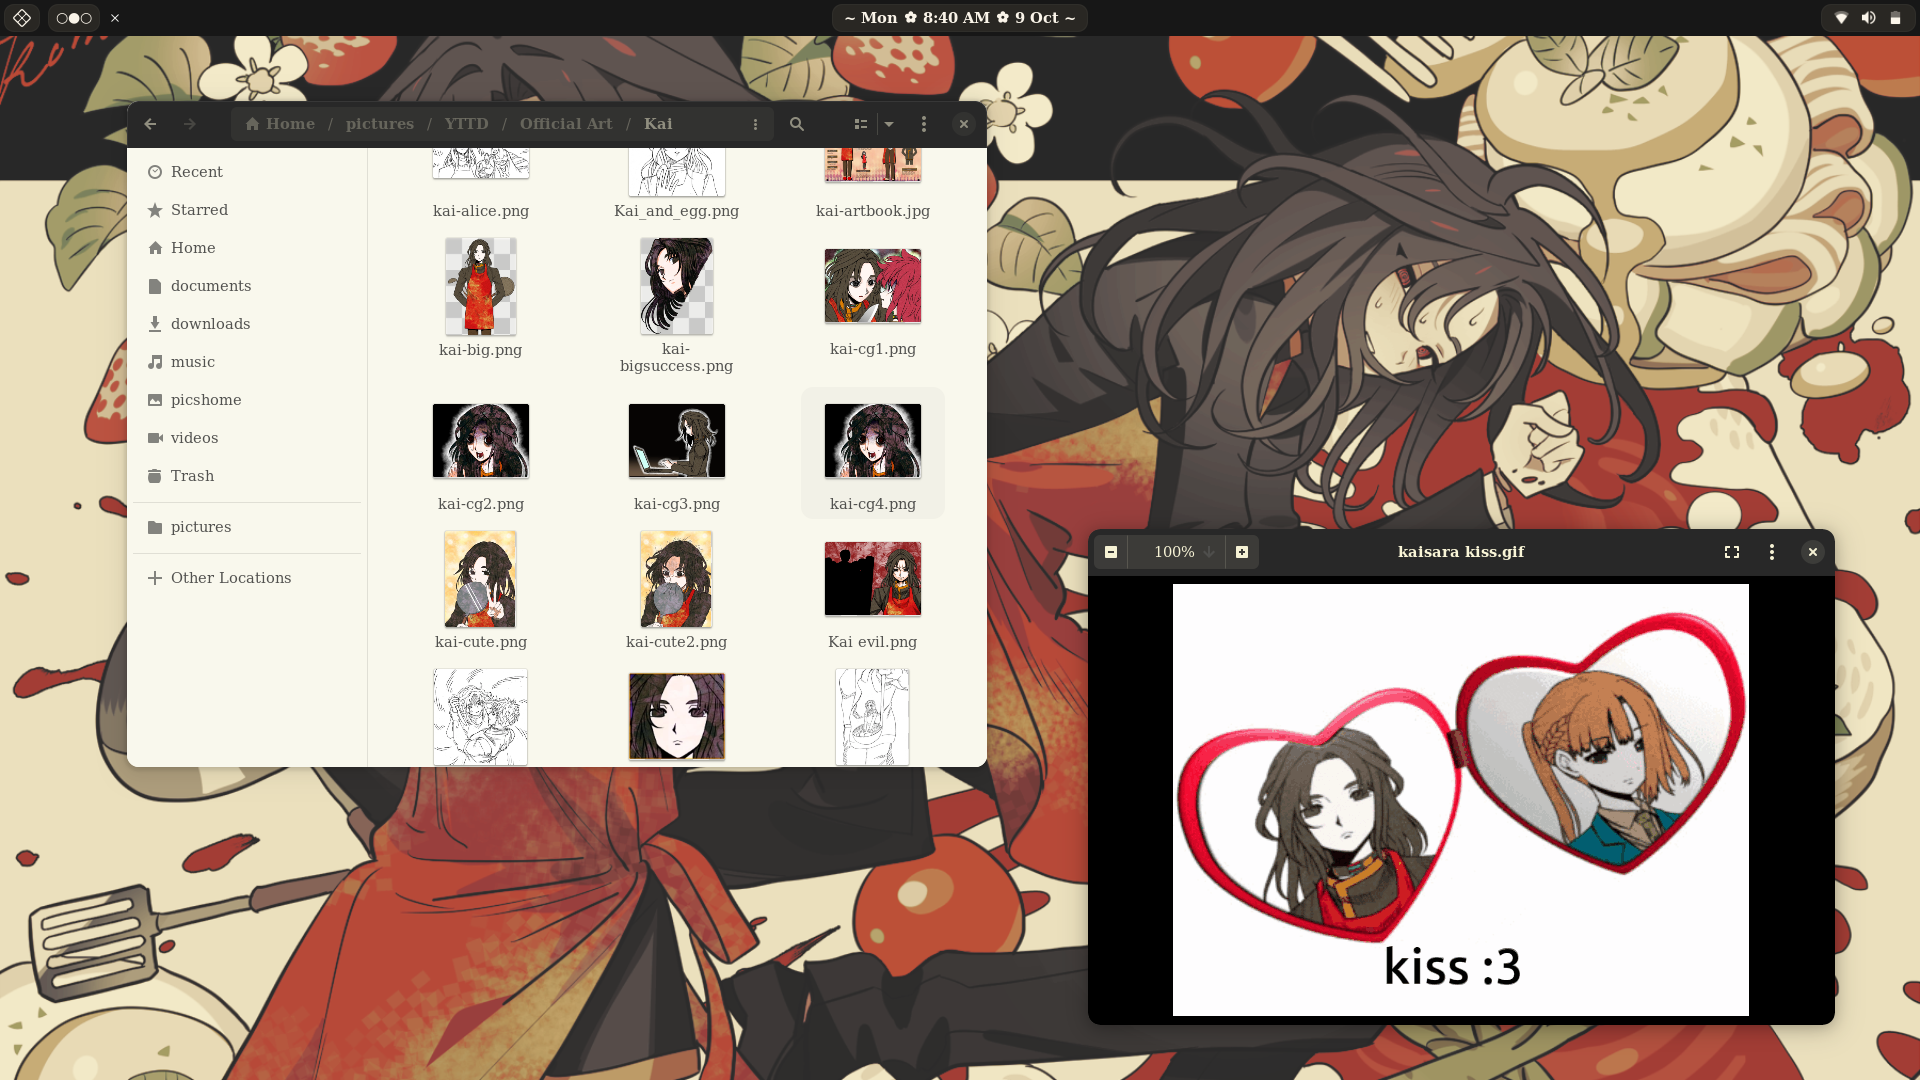
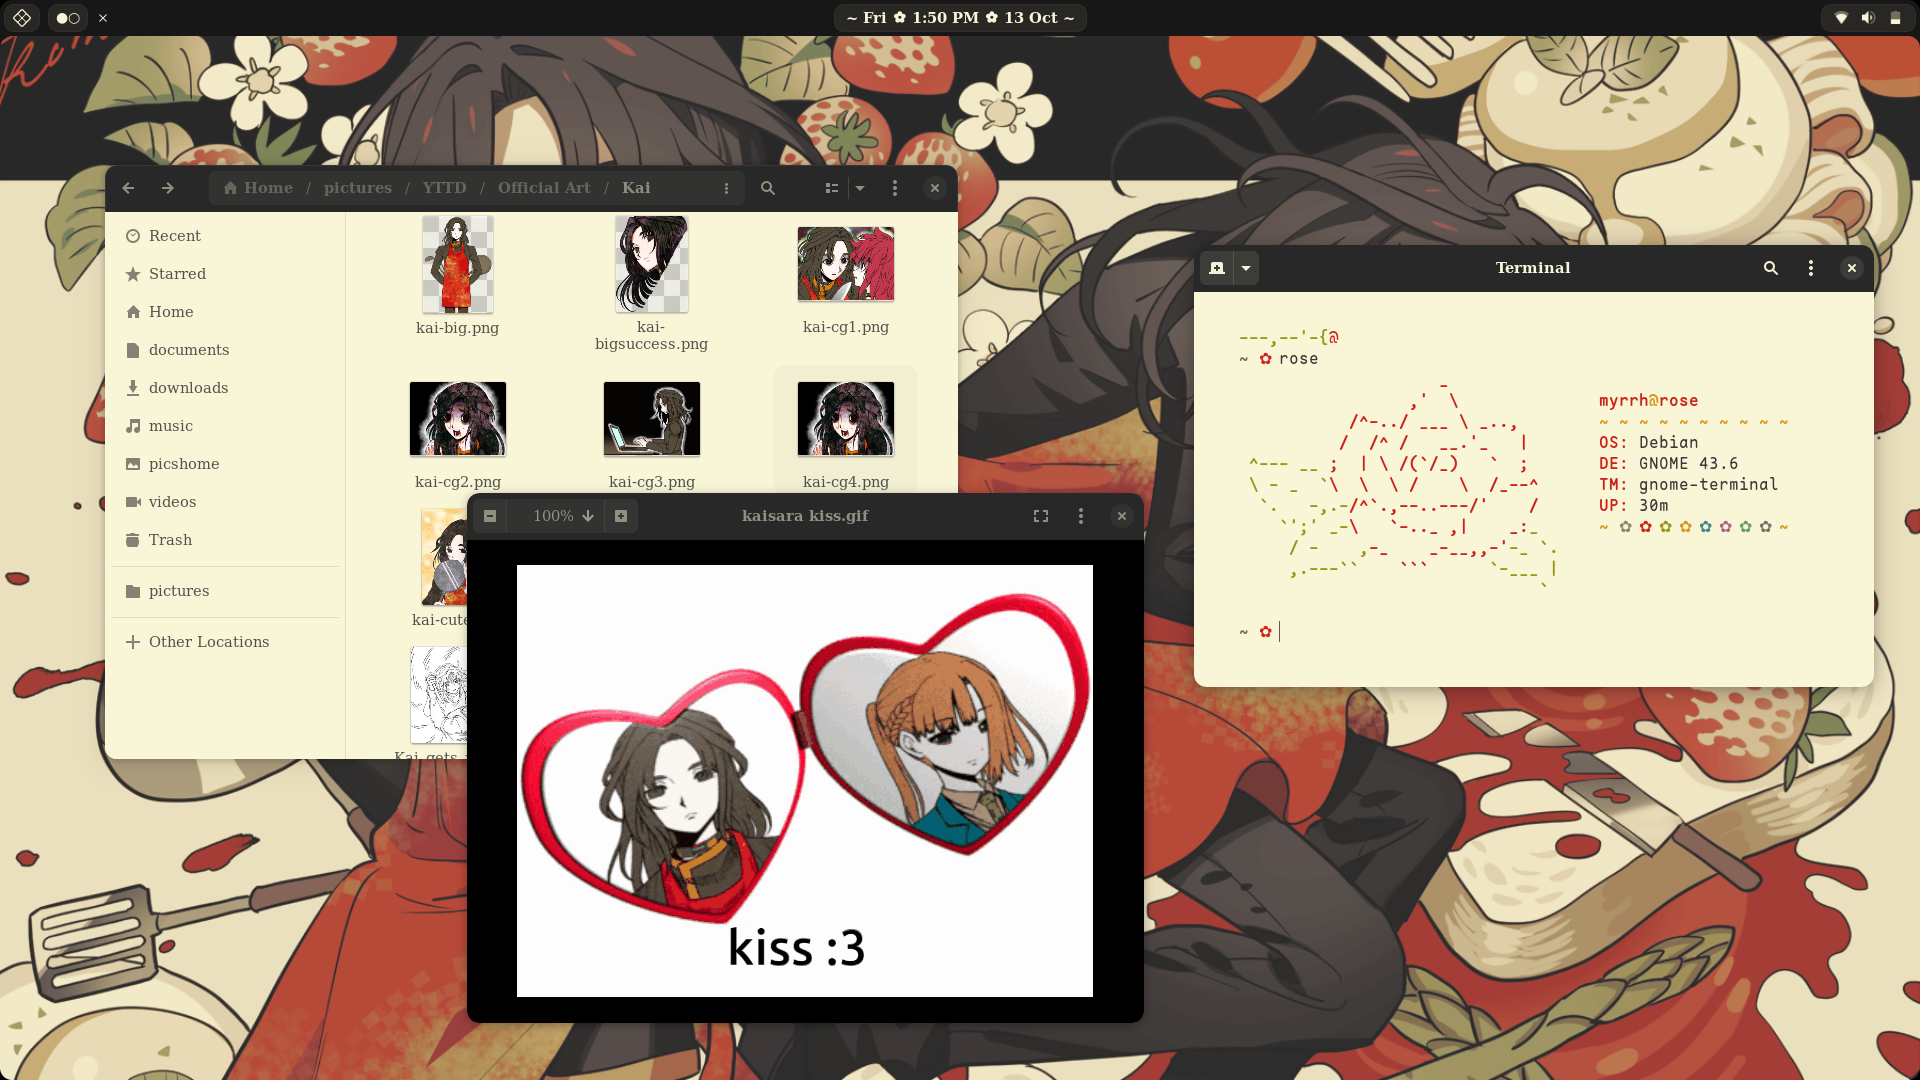
message

diff --git a/.config/gtk-3.0/terminalpadding-gtk.css b/.config/gtk-3.0/terminalpadding-gtk.css
@@ -1,0 +1,6 @@
+ VteTerminal,
+ TerminalScreen,
+ vte-terminal {
+     padding: 35px 45px 45px 45px;
+     -VteTerminal-inner-border: 35px 45px 45px 45px;
+ }

diff --git a/README.md b/README.md
@@ -1,6 +1,7 @@
 # paperflowers
 
 This is an archive for the customization stuff that I use for my GNOME 43 setup \o/ 
+
 The featured character is Kai Satou from Your Turn to Die ~ my anime wifeman
 
 ![empty desktop](https://raw.githubusercontent.com/ronindoll/paperflowers/main/assets/screenshot-1.png)
@@ -14,6 +15,7 @@ palette: Gruvbox Light Hard
 * GTK theming: [Gradience](https://flathub.org/apps/com.github.GradienceTeam.Gradience) using [adw-gtk3](https://github.com/lassekongo83/adw-gtk3)
 * Icon theme: [Papirus](https://github.com/PapirusDevelopmentTeam/papirus-icon-theme) - paleorange folders
 * Cursor theme: [Afterglow Recolored](https://github.com/TeddyBearKilla/Afterglow-Cursors-Recolored) - Catppuccin yellow (it's not Gruvbox becuz ermm I liek pastel yellow)
+* System font: Serif Regular
 
 * Wallpaper & profile icon: art by meremero [1](https://danbooru.donmai.us/posts/6361963?q=satou_kai), [2](https://danbooru.donmai.us/posts/6361969?q=satou_kai) 
 * Browser: Firefox-based
@@ -32,7 +34,8 @@ palette: Gruvbox Light Hard
        https://raw.githubusercontent.com/DiscordStyles/HorizontalServerList/deploy/HorizontalServerList.theme.css
       </details>
 
-* Terminal: kitty (mrrrpp)
+* Terminal: GNOME Terminal (previously kitty)
+    * font: [Maple Mono](https://github.com/subframe7536/Maple-font)
 * Shell: bash
 
 ## extensions
@@ -45,26 +48,27 @@ palette: Gruvbox Light Hard
 * [Panel corners](https://extensions.gnome.org/extension/4805/panel-corners/)
 * [Rounded Window Corners](https://extensions.gnome.org/extension/5237/rounded-window-corners/)
 * [Top Bar Organizer](https://extensions.gnome.org/extension/4356/top-bar-organizer/)
+* [User Themes](https://extensions.gnome.org/extension/19/user-themes/)
 
 ### practical
+* [Caffeine](https://extensions.gnome.org/extension/517/caffeine/)
 * [Cronomix](https://extensions.gnome.org/extension/6003/cronomix/)
 * [GSConnect](https://extensions.gnome.org/extension/1319/gsconnect/)
-* [Workspace indicator](https://extensions.gnome.org/extension/3952/workspace-indicator/)
+* [Launch New Instance](https://extensions.gnome.org/extension/600/launch-new-instance/)
 * [Pano](https://extensions.gnome.org/extension/5278/pano/)
 * [Quick Close in Overview](https://extensions.gnome.org/extension/352/middle-click-to-close-in-overview/)
+* [Removable Drive Menu](https://extensions.gnome.org/extension/7/removable-drive-menu/)
 * [Tiling Assistant](https://extensions.gnome.org/extension/3733/tiling-assistant/)
 * [Unite](https://extensions.gnome.org/extension/1287/unite/)
-
-### default extensions
-* User Themes
-* Removable Drive Menu
-* Launch New Instance
+* [Workspace indicator](https://extensions.gnome.org/extension/3952/workspace-indicator/)
 
 ## keybinds
-* Super+{q,e} - move prev/next workspace
-* Super+Shift+{q,e} - move window to prev/next workspace
-* Super+f - toggle maximization state
-* Super+Shift+f = toggle fullscreen
-* Super+Shift+x - close window
-* Super+Shift+r - resize window
-* Super+{d,g} - split window to left/right
+| Combination                                                        | Action                             |
+|:------------------------------------------------------------------:|:----------------------------------:|
+| <kbd>Super</kbd> + {<kbd>q</kbd>, <kbd>e</kbd>}                    | move prev/next workspace           |
+| <kbd>Super</kbd> + <kbd>Shift</kbd> + {<kbd>q</kbd>, <kbd>e</kbd>} | move window to prev/next workspace |
+| <kbd>Super</kbd> + <kbd>f</kbd>                                    | toggle maximization state          |
+| <kbd>Super</kbd> + <kbd>Shift</kbd> + <kbd>f</kbd>                 | toggle fullscreen                  |
+| <kbd>Super</kbd> + <kbd>Shift</kbd> + <kbd>x</kbd>                 | close window                       |
+| <kbd>Super</kbd> + <kbd>Shift</kbd> + <kbd>r</kbd>                 | resize window                      |
+| <kbd>Super</kbd> + {<kbd>d</kbd>, <kbd>g</kbd>}                    | split window to left/right         |

diff --git a/assets/README.md b/assets/README.md
@@ -1,5 +1,4 @@
 # more screenshots
-![neofetch](https://raw.githubusercontent.com/ronindoll/paperflowers/main/assets/screenshot-4.png)
+![gradience gtk theme + terminal fetch](https://raw.githubusercontent.com/ronindoll/paperflowers/main/assets/screenshot-2.png)
 ![firefox and discord](https://raw.githubusercontent.com/ronindoll/paperflowers/main/assets/screenshot-3.png)
-![gradience gtk theme](https://raw.githubusercontent.com/ronindoll/paperflowers/main/assets/screenshot-2.png)
 ![empty desktop](https://raw.githubusercontent.com/ronindoll/paperflowers/main/assets/screenshot-1.png)
